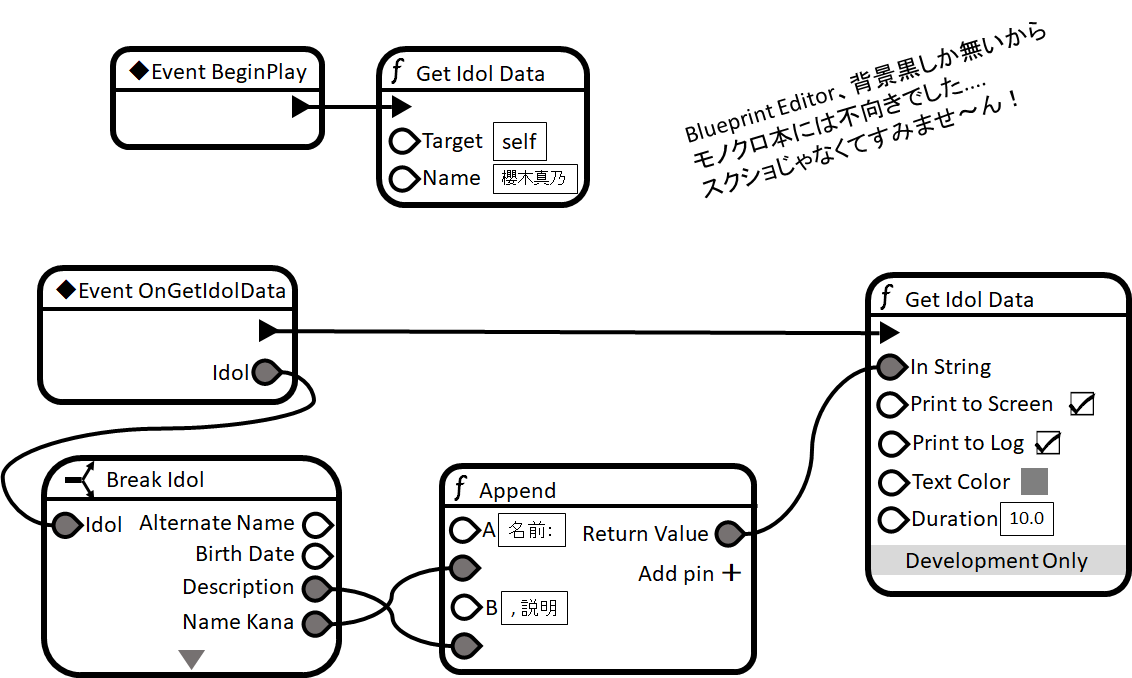
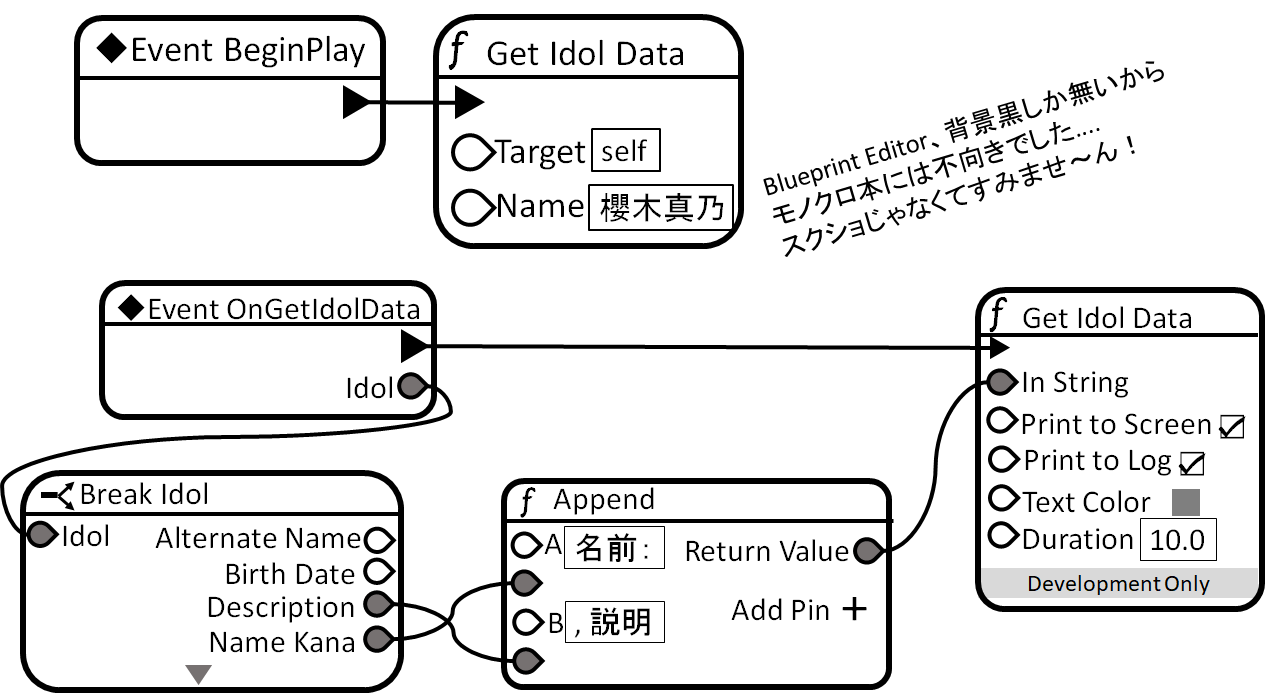
文字サイズ:18=>24, max-width:100%

Changed region(s): [[0.0, 0.3717, 1.0, 1.0], [0.0309, 0.0, 0.9276, 0.3717]]

diff --git a/imasbook02/articles/crssnky.md b/imasbook02/articles/crssnky.md
@@ -334,7 +334,7 @@ void AimasparqlBP::OnCompleteGetIdolData(FHttpRequestPtr req,
 3. 継承するクラスの作成完了
 
 　作ったらダブルクリックでBlueprintエディタを起動し、`"Event Graph"`タブでBlueprintを記述していきます。記述するグラフはこちら。
-![](./images/crssnky/BP3.png)
+<img style="max-width:100%" src="images/crssnky/BP3.png">
 
 　まず、`Event BeginPlay`から`GetIdolData`に繋ぎます。`Name`プロパティには、本誌の表紙アイドルである真乃ちゃんのフルネームを入れましょう。次に`Event OnGetIdolData`を作成します。これはC++で定義したとおり、クエリ結果を使いやすい`FIdol構造体`に格納したあとに呼ばれる関数ですね。未実装でしたが、Blueprintで実装していきましょう。引数であった`Idol`変数をbreakして構造体の中身をつまめるようにします。そこから`NameKana`と`Description`から値を取り出し、`Append`に取り付けます。この`Append`はString型に働くもので、文字列の結合を行うノードです。分かりやすいように、Aピンに`名前：`、Cピンに`, 説明：`を入れておきましょう。最後に、`PrintString`を`OnGetIdolData`と`Append`に繋ぎます。この`PrintString`はデバッグように、実行画面左上に文字列を表示できるノードです。  
 
